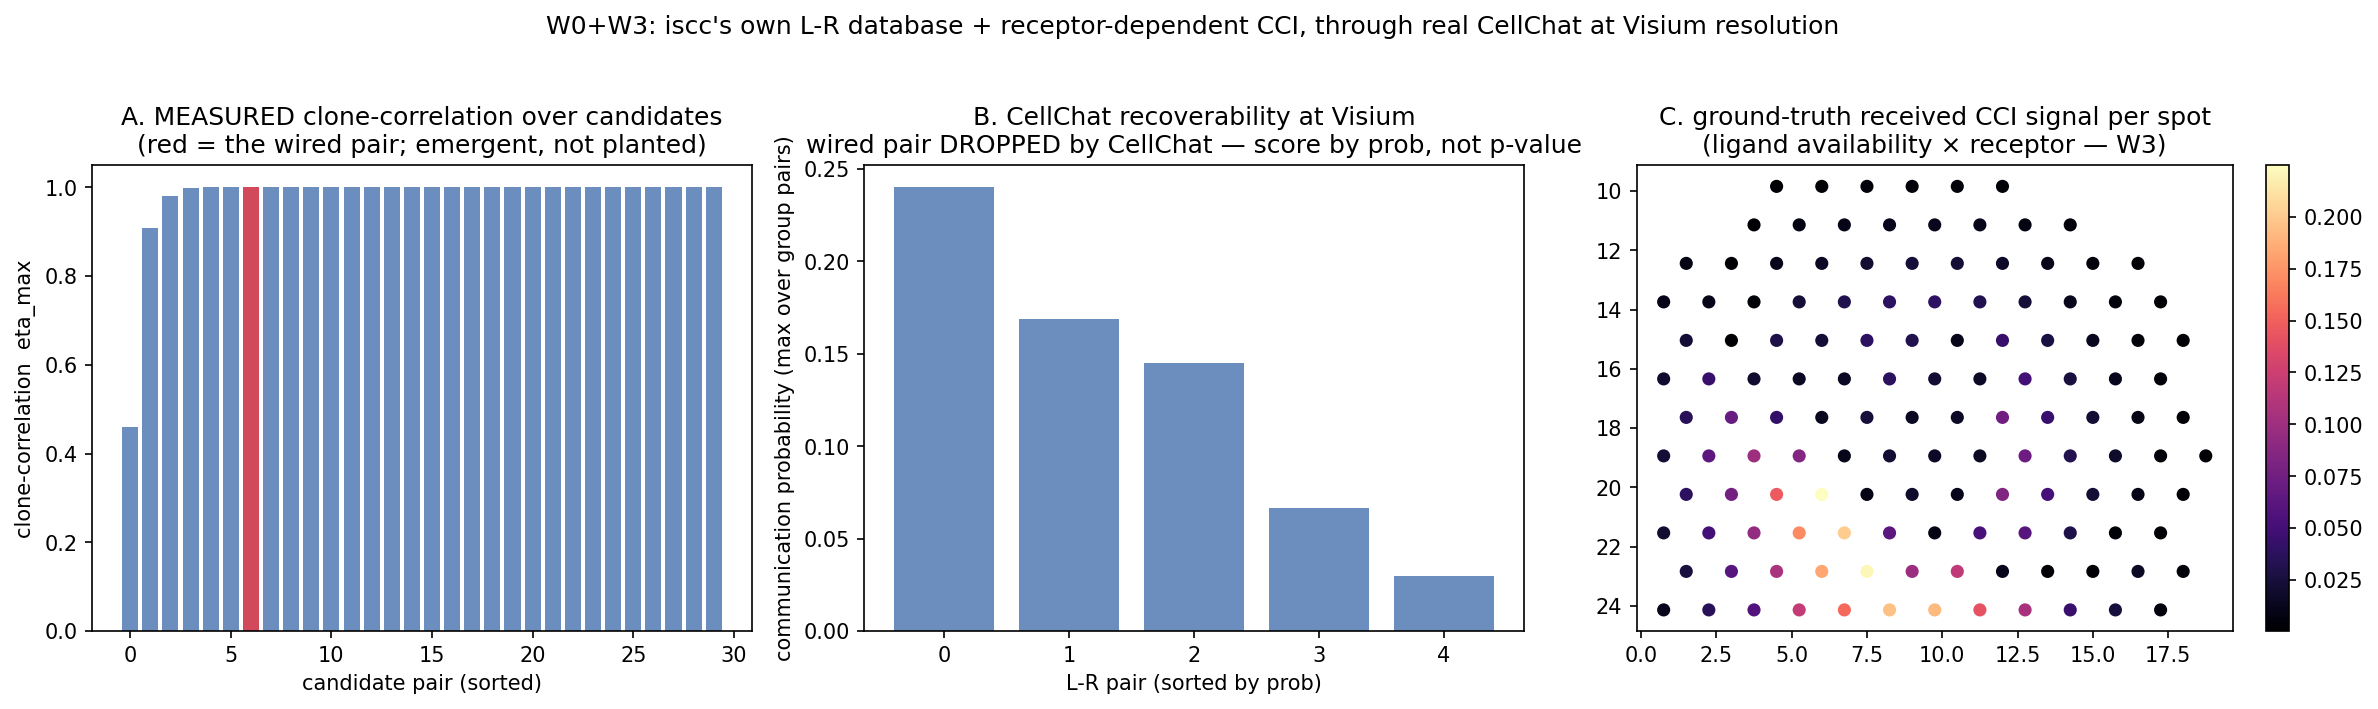
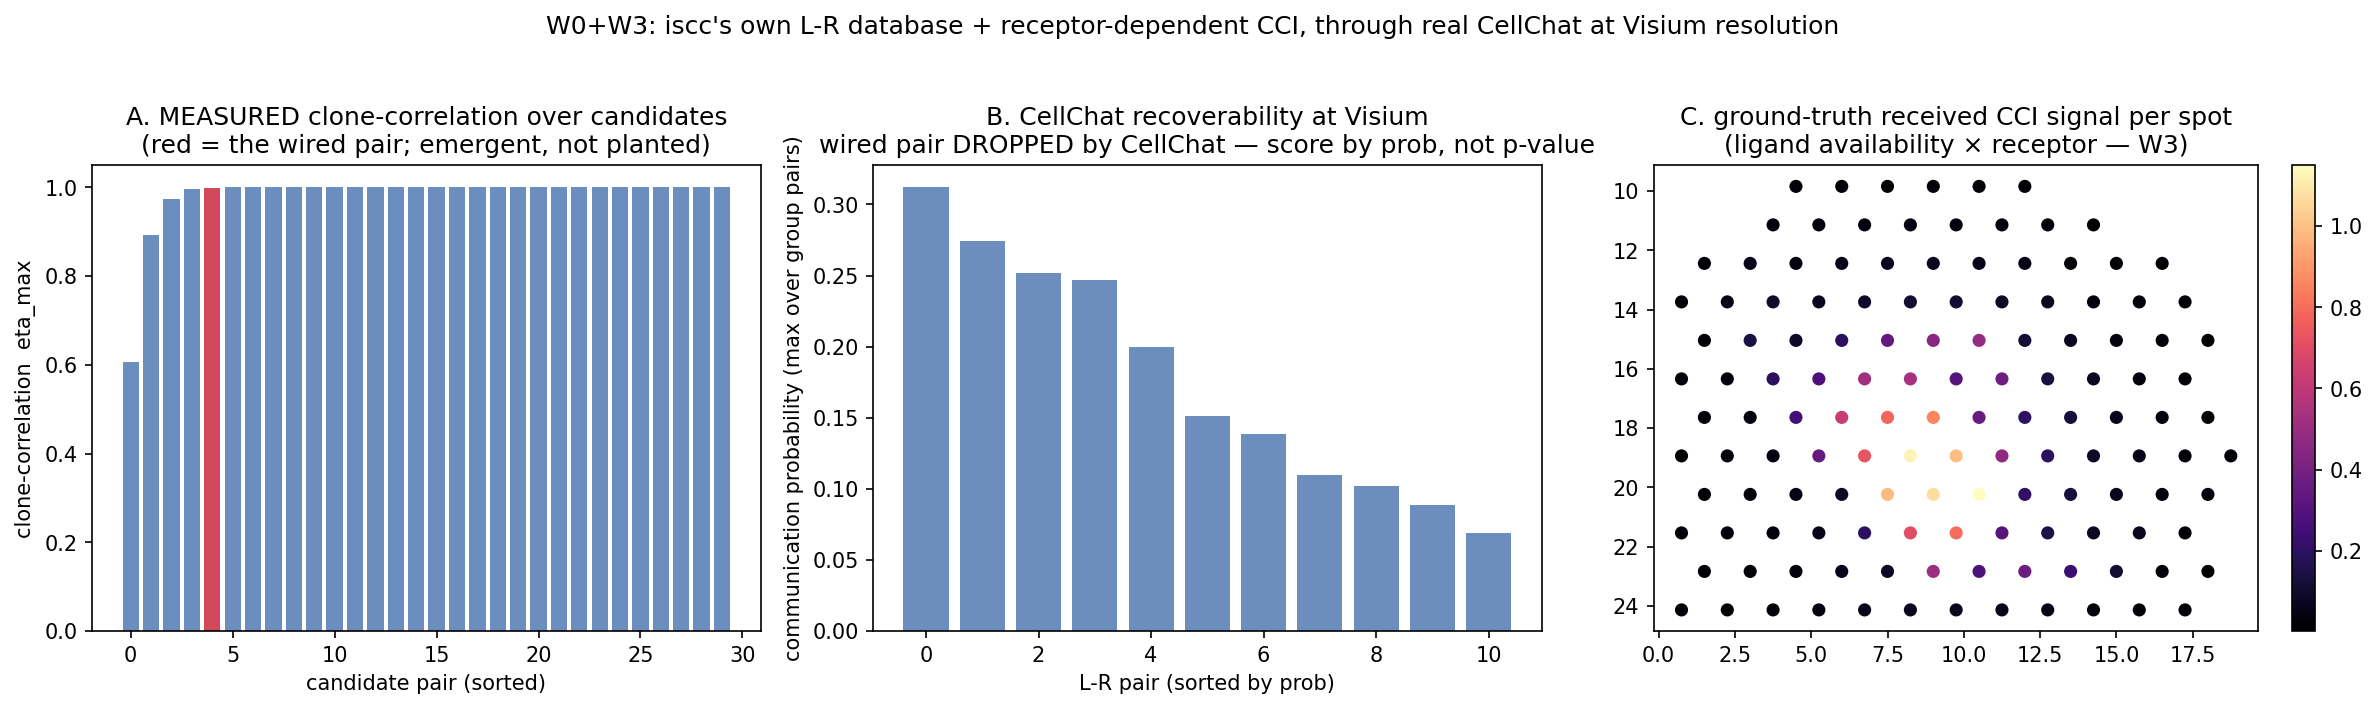
docs: trim the MHN notebook to running MHN
It had grown a rank table scoring recovery against the planted DAG, a lambda-sensitivity
sweep over five cross-validation seeds, and two long interpretive sections — nine cells of
apparatus around four that actually ran the tool. The rank table is the same quantitative
truth comparison already removed from the scDEF notebook, and the sweep is a robustness
study of the fitting procedure rather than a demonstration of it.

What remains: load the cohort, fit it (and an identically grown no-constraint cohort at the
same penalty), and show MHN's own two figures — the Theta network and the progression-order
tree. The control fit stays because it is the same tool on iscc data through the tool's own
plot, and because a regularised network fitted to a few hundred patients always reports
something, so the second panel is what makes the first readable.

diff --git a/src/iscc/tumor/models/count.py b/src/iscc/tumor/models/count.py
@@ -435,7 +435,20 @@ class GenotypeTumor:
             # and blur the benchmark); overlap with the CCI target set is harmless and allowed.
             if float(cci.get("strength", 0.0)) != 0.0 and n_cci > 0:
                 n_pairs = max(1, int(cci.get("n_candidate_pairs", 1)))
-                pool = np.setdiff1d(np.arange(self.n_genes), self._hypoxia_genes)
+                # Candidates must be genes that are actually EXPRESSED. Baseline expression is
+                # beta(0.1, 1.0) per cell type — CDF x^0.1, so the median gene sits at ~1e-3 and is
+                # effectively silent. Drawing a ligand/receptor uniformly lands on a silent gene most
+                # of the time, and the field boost is MULTIPLICATIVE: 0 * (1 + strength*field) = 0, so
+                # the channel would be undetectable and the wired pair would be handicapped against
+                # decoys that happen to be well expressed. Restricting the pool to genes above the
+                # genome-mean baseline (~top 20%) fixes both. A designation rule, not a parameter.
+                base_expr = np.mean([self.celltype_exps[ct] for ct in self.celltype_exps], axis=0)
+                pool = np.setdiff1d(np.flatnonzero(base_expr > base_expr.mean()),
+                                    self._hypoxia_genes)
+                if len(pool) < 2 * n_pairs:                  # small genomes: take the best expressed
+                    ranked = np.argsort(base_expr)[::-1]
+                    ranked = ranked[~np.isin(ranked, self._hypoxia_genes)]
+                    pool = np.sort(ranked[:2 * n_pairs])
                 k = min(2 * n_pairs, len(pool) - (len(pool) % 2))     # even: 2 distinct genes/pair
                 if k >= 2:
                     picks = prog_rng.choice(pool, size=k, replace=False)
